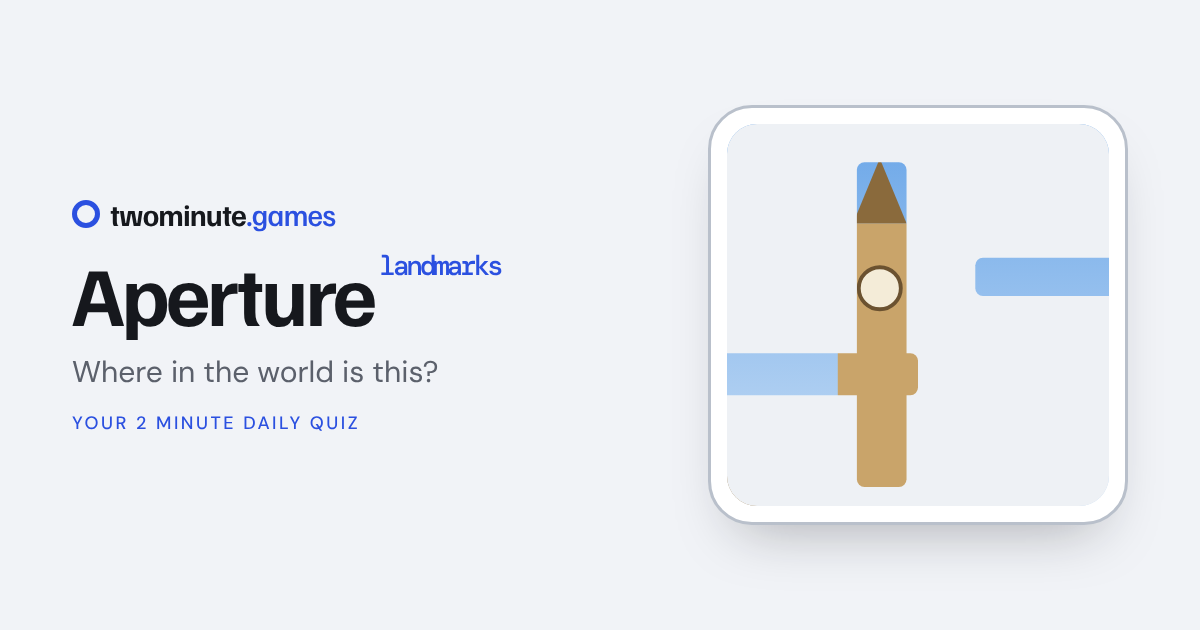
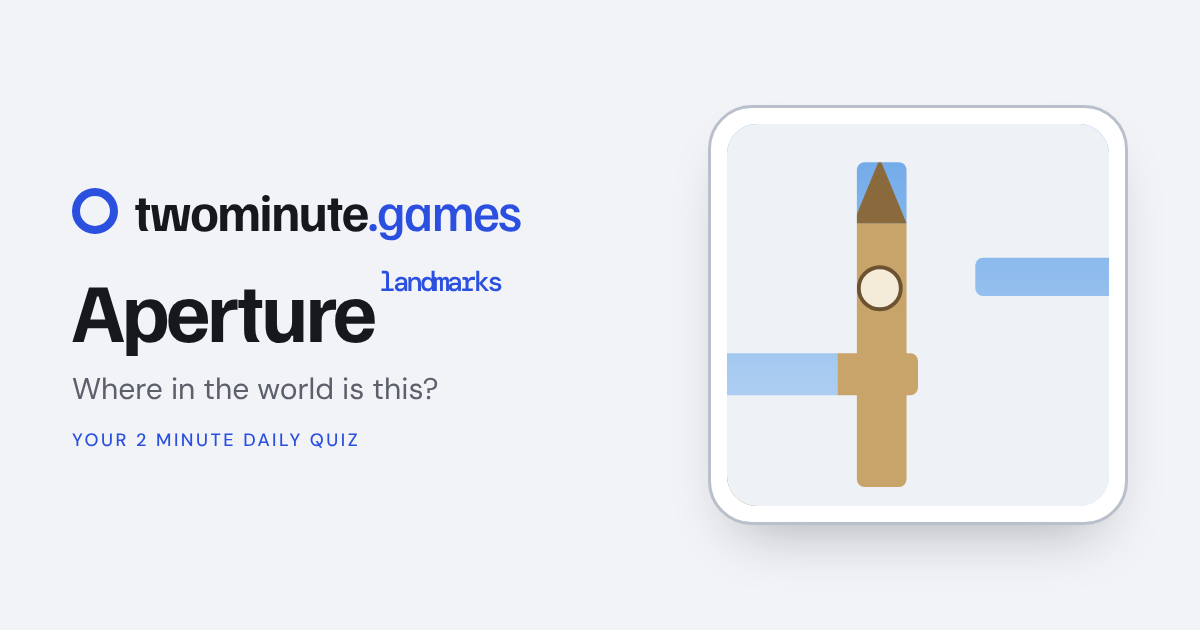
Link preview images: bigger twominute.games name
Claude-Session: https://claude.ai/code/session_01TcAeJH5YWhRoha1BSwTWci

Changed region(s): [[0.0617, 0.3016, 0.4317, 0.6333], [0.0617, 0.6635, 0.3083, 0.7238]]

diff --git a/index.html b/index.html
@@ -11,7 +11,7 @@
 <meta property="og:title" content="Two Minute Games">
 <meta property="og:description" content="Quick daily puzzles. The same for everyone, two minutes a day.">
 <meta property="og:url" content="https://twominute.games/">
-<meta property="og:image" content="https://twominute.games/og.png">
+<meta property="og:image" content="https://twominute.games/og-v2.png">
 <meta name="twitter:card" content="summary_large_image">
 <meta name="theme-color" content="#f1f3f7">
 <link rel="icon" href="/favicon.ico" sizes="any">
